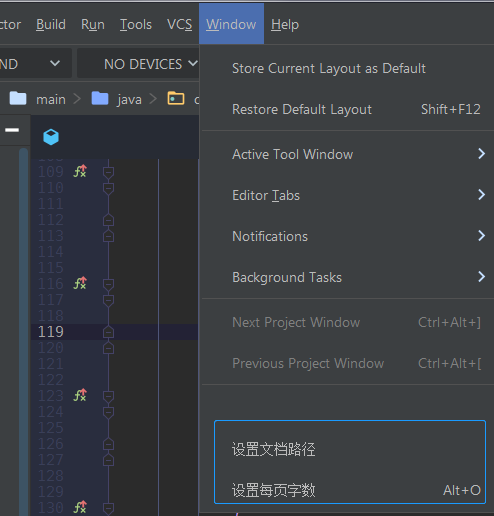
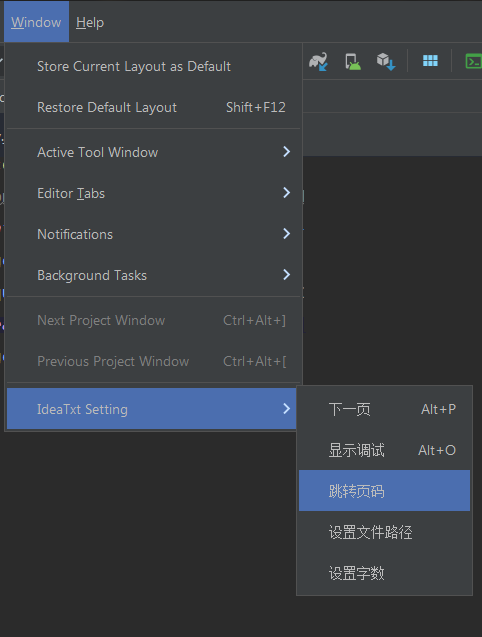
将跳转功能放置于菜单中

diff --git a/src/TxtTool/Window/TxtToolWindow.java b/src/TxtTool/Window/TxtToolWindow.java
@@ -4,14 +4,11 @@ import com.intellij.openapi.project.Project;
 import com.intellij.openapi.wm.*;
 import com.intellij.ui.content.*;
 
-import java.io.File;
-
 import javax.swing.JButton;
 import javax.swing.JLabel;
 import javax.swing.JPanel;
-import javax.swing.JTextField;
 
-import TxtTool.Menu.SettingConfig;
+import TxtTool.Action.SettingConfig;
 import TxtTool.Utils.RandomAccessFileUtils.TxtReader;
 import TxtTool.Utils.Utils;
 
@@ -24,9 +21,8 @@ import TxtTool.Utils.Utils;
 public class TxtToolWindow implements ToolWindowFactory {
 
     private JPanel container;
-    private JButton btnGo;
+    private JButton btnNext;
     private JButton btnLog;
-    private JTextField fieldPage;
     private JLabel lableText;
 
     public void createToolWindowContent(Project project, ToolWindow toolWindow) {
@@ -37,28 +33,20 @@ public class TxtToolWindow implements ToolWindowFactory {
 
         //初始化
         TxtReader.instance();
-        fieldPage.setText(SettingConfig.instance().getPageNum() + "");
+        SettingConfig.instance().setPageNum(SettingConfig.instance().getPageNum() - 1);//因为next会下一页，所以先减少1
         lableText.setText("Hello World !");
 
         //设置按钮监听
-        fieldPage.addActionListener(e -> fieldPage.setText(fieldPage.getText().replaceAll("^[0-9]", "")));//限定只能输入数字
         btnLog.addActionListener(e -> {
             Utils.showLog(lableText);
             int p = SettingConfig.instance().getPageNum();
             TxtReader.instance().toPage(p--);
             SettingConfig.instance().setPageNum(p);
         });//显示伪装
-        btnGo.addActionListener(e -> {
-            if (fieldPage.getText().equals("")) {//如果框内为空则为下一页
-                int p = SettingConfig.instance().getPageNum();
-                lableText.setText(TxtReader.instance().toPage(p++));
-                SettingConfig.instance().setPageNum(p);
-            } else {//如果已经填了值则跳转 并置空输入框
-                int p = Integer.parseInt(fieldPage.getText());
-                lableText.setText(TxtReader.instance().toPage(p++));
-                SettingConfig.instance().setPageNum(p);
-                fieldPage.setText("");
-            }
+        btnNext.addActionListener(e -> {
+            int p = SettingConfig.instance().getPageNum();
+            lableText.setText(TxtReader.instance().toPage(p++));
+            SettingConfig.instance().setPageNum(p);
         });
     }
 

diff --git a/src/TxtTool/Action/TurnToPage.java b/src/TxtTool/Action/TurnToPage.java
@@ -1,0 +1,61 @@
+package TxtTool.Action;
+
+import com.intellij.openapi.actionSystem.AnAction;
+import com.intellij.openapi.actionSystem.AnActionEvent;
+import com.intellij.openapi.actionSystem.PlatformDataKeys;
+import com.intellij.openapi.project.Project;
+import com.intellij.openapi.ui.Messages;
+import com.intellij.openapi.wm.ToolWindow;
+import com.intellij.openapi.wm.ToolWindowManager;
+
+import javax.swing.JLabel;
+
+import TxtTool.Utils.RandomAccessFileUtils.TxtReader;
+
+public class TurnToPage extends AnAction {
+    public static final String TOOL_WINDOW_ID = "IdeaTxt";
+
+    @Override
+    public void actionPerformed(AnActionEvent e) {
+        Project project = (Project) e.getData(PlatformDataKeys.PROJECT);
+        TxtReader.instance();
+
+        String textNum = Messages.showInputDialog(
+                project,
+                "请输入数字",
+                "请输入需要跳转的页码:",
+                Messages.getQuestionIcon());
+
+        try {
+            int p = Integer.parseInt(textNum);
+
+            ToolWindow toolWindow = ToolWindowManager.getInstance(project).getToolWindow(TOOL_WINDOW_ID);
+            if (toolWindow != null) {
+                // 无论当前状态为关闭/打开，进行强制打开ToolWindow 2017/3/21 16:21
+                toolWindow.show(new Runnable() {
+                    @Override
+                    public void run() {
+                    }
+                });
+
+                try {            // ToolWindow未初始化时，可能为空 2017/4/4 18:20
+                    JLabel jLabel = (JLabel) (toolWindow.getContentManager().getContent(0).getComponent().getComponent(0));
+                    if (jLabel != null) {
+
+                        jLabel.setText(TxtReader.instance().toPage(p++));
+                        SettingConfig.instance().setPageNum(p);
+
+                    }
+                } catch (Exception e1) {
+                    e1.printStackTrace();
+                }
+            }
+
+        } catch (Exception x) {
+            Messages.showMessageDialog(project,
+                    "页码有误,请重试!",
+                    "提示:",
+                    Messages.getInformationIcon());
+        }
+    }
+}

diff --git a/src/TxtTool/Action/WordNum.java b/src/TxtTool/Action/WordNum.java
@@ -1,23 +1,15 @@
-package TxtTool.Menu;
+package TxtTool.Action;
 
 import com.intellij.openapi.actionSystem.AnAction;
 import com.intellij.openapi.actionSystem.AnActionEvent;
 import com.intellij.openapi.actionSystem.PlatformDataKeys;
 import com.intellij.openapi.project.Project;
 import com.intellij.openapi.ui.Messages;
-import com.intellij.openapi.wm.ToolWindow;
-import com.intellij.openapi.wm.ToolWindowManager;
-import com.intellij.ui.content.Content;
-import com.intellij.ui.content.ContentFactory;
-
-import javax.swing.JPanel;
 
 import TxtTool.Utils.RandomAccessFileUtils.TxtReader;
 
-import static TxtTool.Action.NextPage.TOOL_WINDOW_ID;
-
 /*测试程序*/
-public class SettingTextNum extends AnAction {
+public class WordNum extends AnAction {
 
     public void actionPerformed(AnActionEvent event) {
         Project project = (Project) event.getData(PlatformDataKeys.PROJECT);

diff --git a/src/TxtTool/Action/FilePath.java b/src/TxtTool/Action/FilePath.java
@@ -1,4 +1,4 @@
-package TxtTool.Menu;
+package TxtTool.Action;
 
 import com.intellij.openapi.actionSystem.AnAction;
 import com.intellij.openapi.actionSystem.AnActionEvent;
@@ -7,12 +7,11 @@ import com.intellij.openapi.project.Project;
 import com.intellij.openapi.ui.Messages;
 
 import java.io.File;
-import java.io.Reader;
 
 import TxtTool.Utils.RandomAccessFileUtils.TxtReader;
 
 /*测试程序*/
-public class SettingFilePath extends AnAction {
+public class FilePath extends AnAction {
 
     public void actionPerformed(AnActionEvent event) {
         Project project = (Project) event.getData(PlatformDataKeys.PROJECT);

diff --git a/src/TxtTool/Action/SettingConfig.java b/src/TxtTool/Action/SettingConfig.java
@@ -1,4 +1,4 @@
-package TxtTool.Menu;
+package TxtTool.Action;
 
 import com.intellij.ide.util.PropertiesComponent;
 
@@ -17,7 +17,7 @@ public class SettingConfig {
         pc = PropertiesComponent.getInstance();
         System.out.println("FilePath=" + getFilePath());
         System.out.println("PageNum=" + getPageNum());
-        System.out.println("TextNum=" + getTextNum());
+        System.out.println("WordNum=" + getTextNum());
         System.out.println("TextSize=" + getTextSize());
     }
 

diff --git a/src/TxtTool/Utils/TxtFormat.java b/src/TxtTool/Utils/TxtFormat.java
@@ -7,7 +7,7 @@ import java.io.*;
 import java.util.regex.Matcher;
 import java.util.regex.Pattern;
 
-import TxtTool.Menu.SettingConfig;
+import TxtTool.Action.SettingConfig;
 
 public class TxtFormat {
 //    private static String path = "C:/Users/User/text.txt";

diff --git a/src/TxtTool/Utils/RandomAccessFileUtils/TxtReader.java b/src/TxtTool/Utils/RandomAccessFileUtils/TxtReader.java
@@ -3,7 +3,7 @@ package TxtTool.Utils.RandomAccessFileUtils;
 import java.io.*;
 import java.util.ArrayList;
 
-import TxtTool.Menu.SettingConfig;
+import TxtTool.Action.SettingConfig;
 import TxtTool.Utils.TxtFormat;
 
 public class TxtReader {

diff --git a/src/TxtTool/Action/NextPage.java b/src/TxtTool/Action/NextPage.java
@@ -9,7 +9,6 @@ import com.intellij.openapi.wm.ToolWindowManager;
 
 import javax.swing.JLabel;
 
-import TxtTool.Menu.SettingConfig;
 import TxtTool.Utils.RandomAccessFileUtils.TxtReader;
 
 public class NextPage extends AnAction {

diff --git a/src/TxtTool/Action/ShowLog.java b/src/TxtTool/Action/ShowLog.java
@@ -9,7 +9,6 @@ import com.intellij.openapi.wm.ToolWindowManager;
 
 import javax.swing.JLabel;
 
-import TxtTool.Menu.SettingConfig;
 import TxtTool.Utils.RandomAccessFileUtils.TxtReader;
 import TxtTool.Utils.Utils;
 
